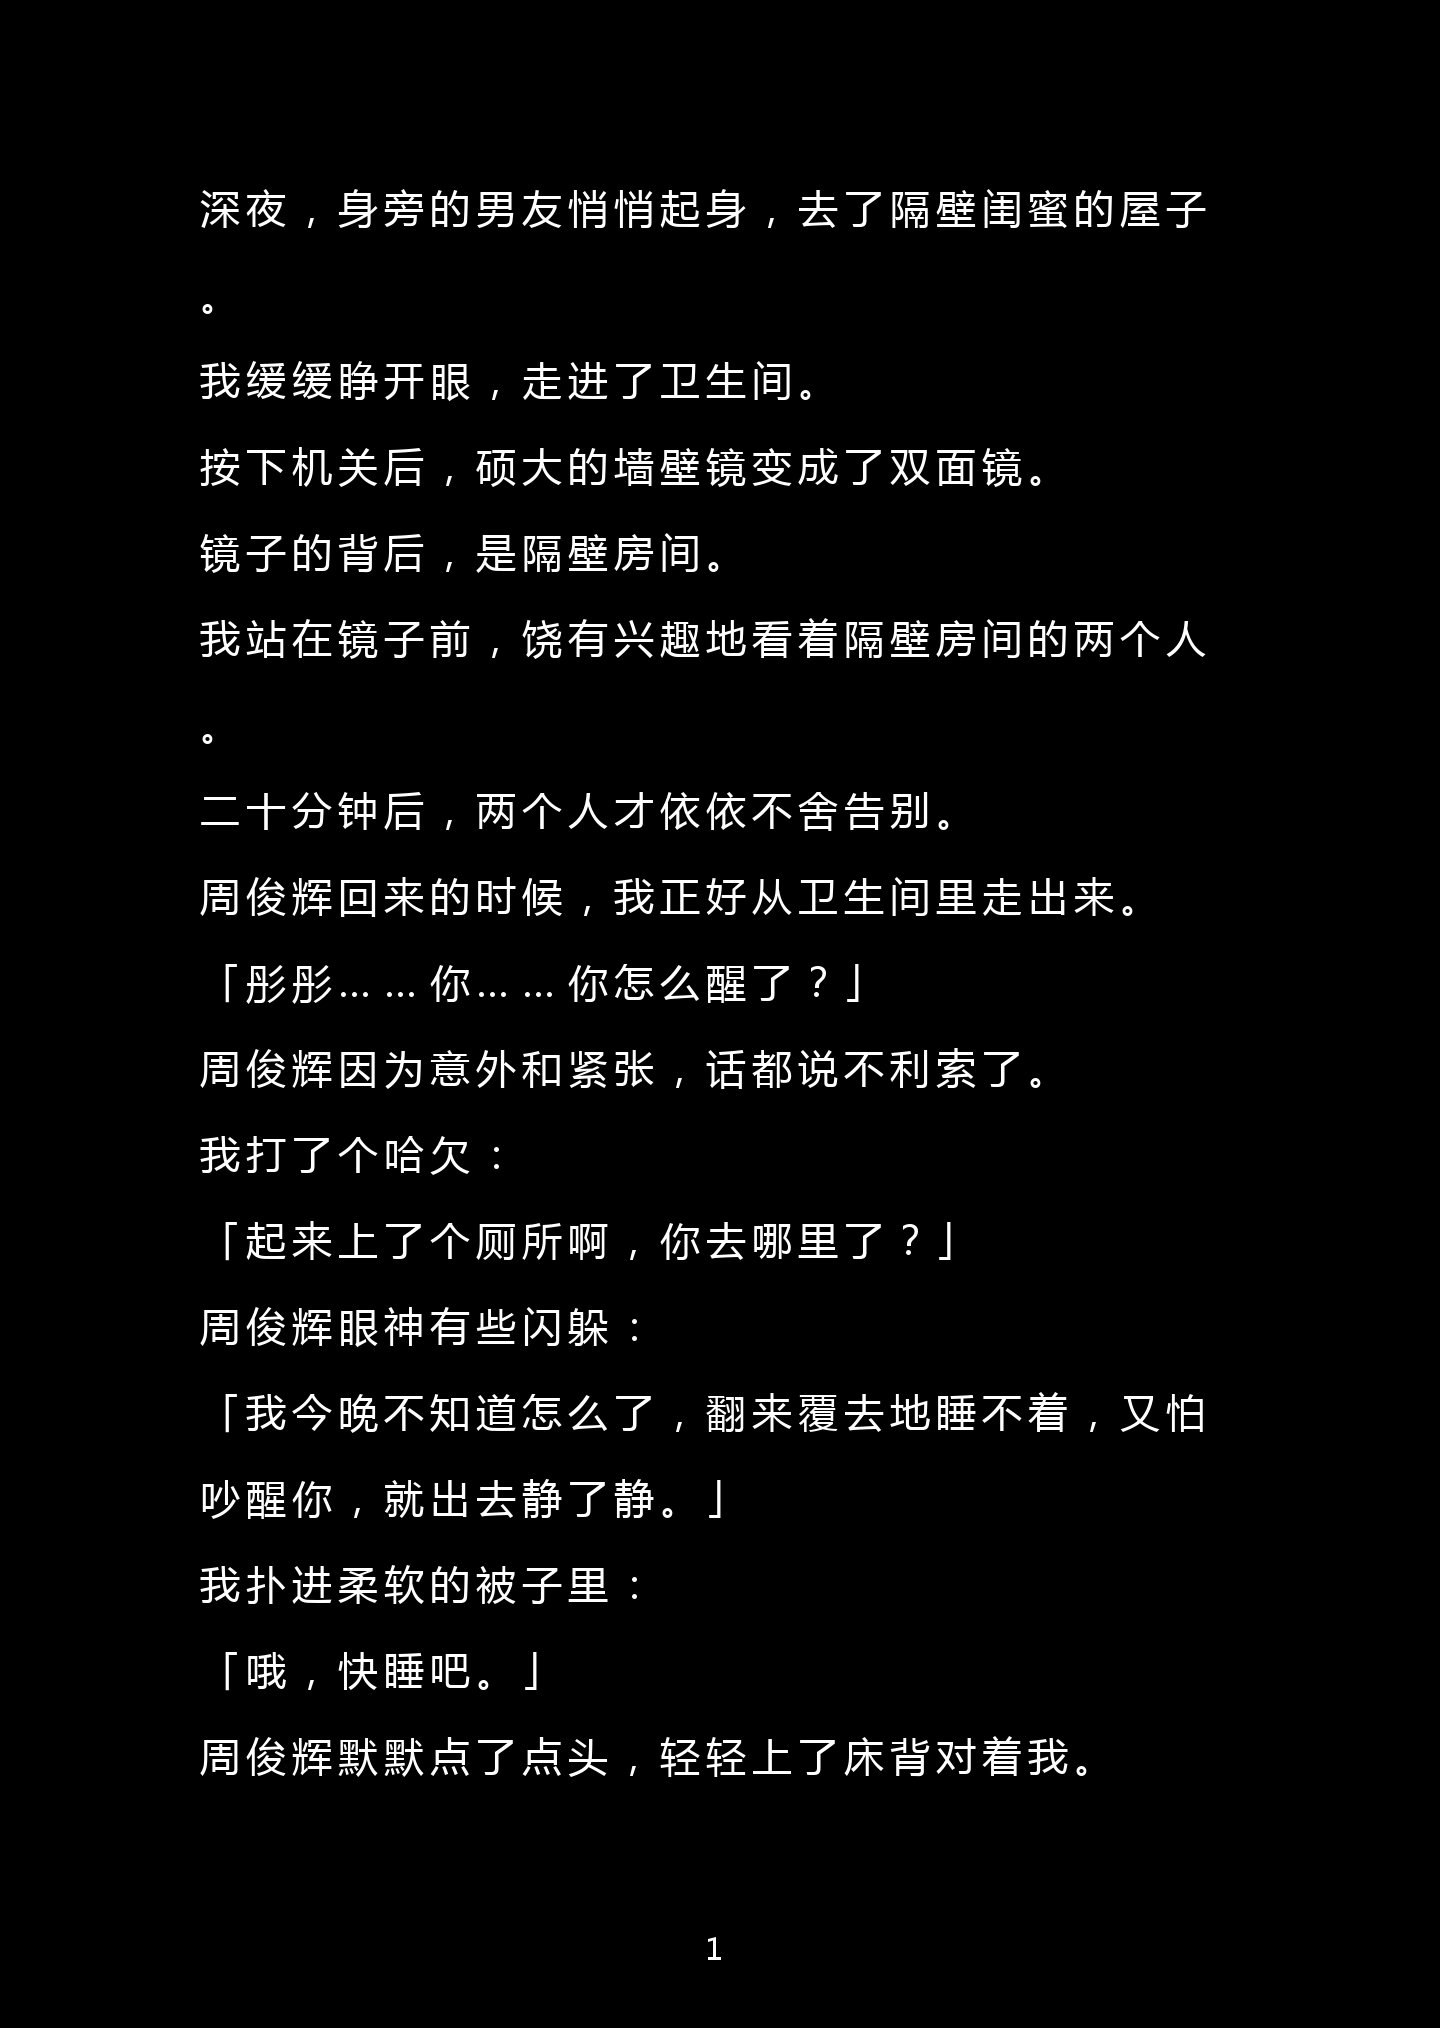
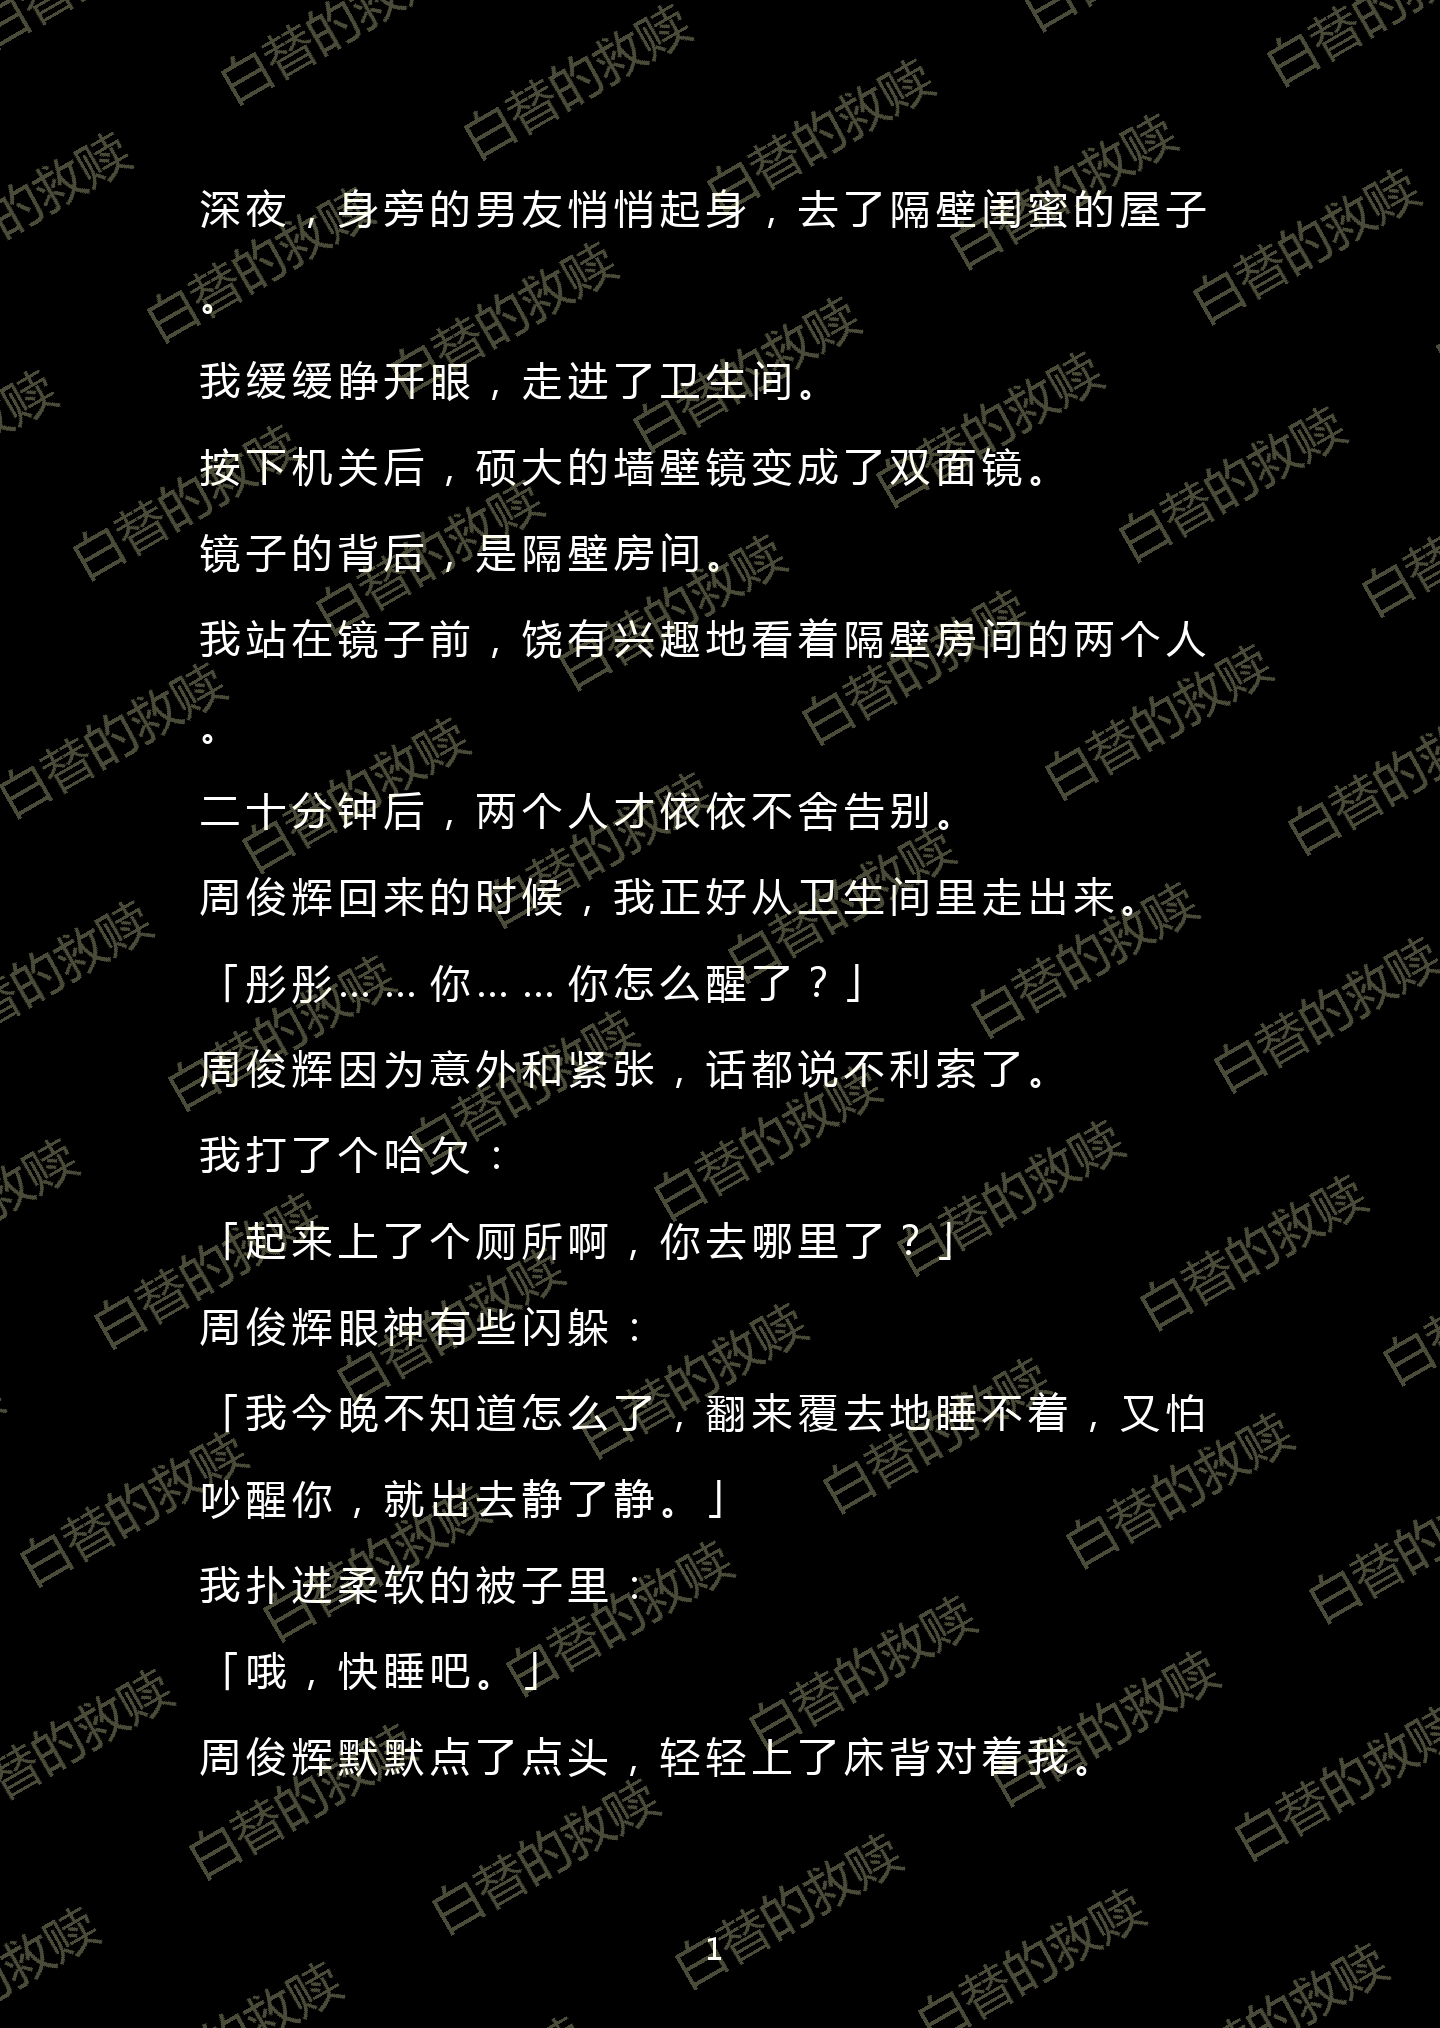
加了对关键词水印的支持，可以设置关键词水印，支持自定义水印字体、水印颜色、水印大小、水印透明度、水印间隔

diff --git a/create_img_for_story.py b/create_img_for_story.py
@@ -1,48 +1,184 @@
 # -*- coding: utf-8 -*-
+"""
+# * * * * * * * * * * * * * * * * * * * * * * * * * * * * * * #
+# *     _   _    _ _   _ _   __  _ _  __ _ _   _ _   _ _    * #
+# *    / \ | |  / _` V  _  \ \ \/ ∧ \/ /  _` V  _  V  _` \  * #
+# *   / Δ \| |_| (_l | | | |  \  / \  /| (_l | | | | (_) |  * #
+# *  /_/ \_|___|\__∧_|_| |_|   \/   \/  \__∧_|_| |_|\__, |  * #
+# *                                                 _ _| |  * #
+# *             Author : AlanWang4523               \_ _,'  * #
+# *              Mail  : alanwang4523@gmail.com             * #
+# *              Date  : 2023-05-31                         * #
+# * * * * * * * * * * * * * * * * * * * * * * * * * * * * * * #
+
+版本记录：
+
+v1.0 2023-05-31
+1、本脚本是把小说自动分段生成多张图片，可自定义背景色、字体、字体颜色、字体大小、行间距、字间距等
+
+v2.0 2023-06-01
+1、增加背景水印功能，支持自定义水印字体、水印颜色、水印大小、水印透明度、水印间隔
+
+该脚本代码已免费开源到 Github，地址：https://github.com/alanwang4523/TextToImage
+后续更新我会同步到上述 Github 上，可自行下载
+
+"""
 import sys
 import os
-from PIL import Image, ImageDraw, ImageFont
+import math
+from PIL import Image, ImageDraw, ImageFont, ImageEnhance, ImageChops
 
-# 生成图片的参数设置
 
+""" ************** 主图片的参数设置 ************** """
 # 是否去除小说中的空白行
-IS_DELETE_EMPTY_LINE = True 
+IS_DELETE_EMPTY_LINE = True
 
 # 输出的图片宽高
-WIDTH, HEIGHT = 1440, 2028 
+WIDTH, HEIGHT = 1440, 2028
 
-# 背景图颜色，RGBA，如绿色背景：(0,128,0,0)
-BACKGROUND_COLORE=(0,0,0,256) 
+# 背景图颜色，RGBA，如浅绿色背景：(69, 139, 116)，颜色值取色可参考：https://tool.oschina.net/commons?type=3
+BACKGROUND_COLOR = (0, 0, 0)
 
 # 文字颜色，RGB
-FONT_COLOR = (255, 255, 255) 
+FONT_COLOR = (255, 255, 255)
 
 # 中文字体库，请将此字体文件保存到脚本文件夹中
-FONT_NAME = "yahei.ttf"  
+FONT_NAME = "yahei.ttf"
 
 # 左右边距
-HORIZONTAL_MATGIN = 200 
+HORIZONTAL_MARGIN = 200
 
 # 上下边距
-VERTICAL_MATGIN = 180 
+VERTICAL_MARGIN = 180
 
 # 字体大小
-FONT_SIZE = 40 
+FONT_SIZE = 40
 
 # 行间距
-LINE_SPACING = 46 
+LINE_SPACING = 46
 
 # 字间距
-CHARACTER_SPACING = 6 
+CHARACTER_SPACING = 6
 
+
+""" ************** 水印相关参数设置 ************** """
+# 水印关键词
+KEY_WATERMARK_TXT = ""
+
+# 关键词字体，可以和主主文本不一致
+KEY_WM_FONT = "yahei.ttf"
+
+# 关键词水印文字颜色，RGB
+KEY_WM_FONT_COLOR = (255, 255, 128)
+
+# 关键词水印的透明度参数, 越小水印越浅，必须是 [0.0, 1.0] 之间
+KEY_WM_OPACITY = 0.18
+
+# 关键词水印大小
+KEY_WM_SIZE = 50
+
+# 关键词水印的旋转角度
+KEY_WM_ROTATE_ANGLE = 30
+
+# 两个关键词水印之间的水平间隔
+KEY_WM_HORIZONTAL_SPACE = 120
+
+# 两行关键词水印之间的水平间隔，即关键词水印行间距
+KEY_WM_VERTICAL_SPACE = 120
+
+# 关键词水印旋转角度
+KEY_WM_ROTATION = 30
+
+
+"""
+# 设置透明度
+"""
+def set_opacity(im, opacity):
+    assert opacity >= 0 and opacity <= 1
+
+    alpha = im.split()[3]
+    alpha = ImageEnhance.Brightness(alpha).enhance(opacity)
+    im.putalpha(alpha)
+    return im
+
+"""
+# 裁掉空白
+"""
+def crop_image(im):
+    bg = Image.new(mode='RGBA', size=im.size)
+    diff = ImageChops.difference(im, bg)
+    del bg
+    bbox = diff.getbbox()
+    if bbox:
+        return im.crop(bbox)
+    return im
+
+
+"""
+# 生成关键词水印图
+"""
+def create_key_watermark():
+    # 字体宽度
+    wm_width = len(KEY_WATERMARK_TXT) * KEY_WM_SIZE
+
+    # 创建水印图片
+    watermark = Image.new(mode='RGBA', size=(wm_width, int(KEY_WM_SIZE * 2)))
+
+    draw_txt = ImageDraw.Draw(im=watermark)
+    draw_txt.text(xy=(0, int((watermark.size[1] - KEY_WM_SIZE) / 2)),
+                    text=KEY_WATERMARK_TXT,
+                    fill=KEY_WM_FONT_COLOR,
+                    font=ImageFont.truetype(KEY_WM_FONT, size=KEY_WM_SIZE))
+    # 裁剪空白
+    watermark = crop_image(watermark)
+    # 透明度
+    set_opacity(watermark, KEY_WM_OPACITY)
+
+    return watermark
+
+
+def draw_watermark_to_img(im, mark):
+    # 计算对角线长度
+    img_w = im.size[0]
+    img_h = im.size[1]
+    mark_w = mark.size[0]
+    mark_h = mark.size[1]
+    d_len = int(math.sqrt(img_w*img_w + img_h*img_h))
+
+    # 以对角线长度为宽高创建大图，确保旋转后能覆盖原图
+    mark2 = Image.new(mode='RGBA', size=(d_len, d_len))
+
+    # 在大图上生成水印文字
+    y, idx = 0, 0
+    while y < d_len:
+        # 水印错开分布
+        x = -int((mark_w + KEY_WM_HORIZONTAL_SPACE) * 0.5 * idx)
+        idx = (idx + 1) % 2
+
+        while x < d_len:
+            # 在该位置粘贴mark水印图片
+            mark2.paste(mark, (x, y))
+            x += (mark_w + KEY_WM_HORIZONTAL_SPACE)
+        y += (mark_h + KEY_WM_VERTICAL_SPACE)
+
+    # 将大图旋转指定角度
+    mark2 = mark2.rotate(KEY_WM_ROTATE_ANGLE)
+
+    # 在原图上添加大图水印
+    if im.mode != 'RGBA':
+        im = im.convert('RGBA')
+    im.paste(mark2, # 大图
+        (int((img_w - d_len) / 2), int((img_h - d_len) / 2)), # 坐标
+        mask=mark2.split()[3])
+    del mark2
+    return im
 
 """
 # 将文本生成图片
 """
 def create_image_with_text(i, text, out_path):
-
     # 创建一个新的空白图像
-    image = Image.new("RGB", (WIDTH, HEIGHT), BACKGROUND_COLORE)
+    image = Image.new("RGB", (WIDTH, HEIGHT), BACKGROUND_COLOR)
 
     # 创建字体对象
     font = ImageFont.truetype(FONT_NAME, FONT_SIZE)
@@ -54,10 +190,10 @@ def create_image_with_text(i, text, out_path):
     lines = text.split("\n")
 
     # 自动计算每行最大字符数
-    max_chars_per_line = int((WIDTH - 2 * HORIZONTAL_MATGIN) / (FONT_SIZE + CHARACTER_SPACING))
+    max_chars_per_line = int((WIDTH - 2 * HORIZONTAL_MARGIN) / (FONT_SIZE + CHARACTER_SPACING))
     line_height = FONT_SIZE + LINE_SPACING
 
-    y = VERTICAL_MATGIN
+    y = VERTICAL_MARGIN
 
     # 在图像上绘制文本
     for line in lines:
@@ -67,7 +203,7 @@ def create_image_with_text(i, text, out_path):
         while line:
             chars_to_draw = line[:max_chars_per_line]
             line = line[max_chars_per_line:]
-            x = HORIZONTAL_MATGIN
+            x = HORIZONTAL_MARGIN
             for character in chars_to_draw:
                 draw.text((x, y), character, fill=FONT_COLOR, font=font)
                 x += (FONT_SIZE + CHARACTER_SPACING)
@@ -80,11 +216,15 @@ def create_image_with_text(i, text, out_path):
     x = (WIDTH - num_size) / 2
     y = HEIGHT - 100
     draw.text((x, y), num, fill=FONT_COLOR, font=font)
-    # 将图像保存到文件
-    image.save(out_path)
+
+    return image
 
 
+"""
+# 将文本自动分成多段
+"""
 def handle_text(input_text_file, output_dir):
+	img_count = 0
     # 打开要处理的文件
 	with open(input_text_file, 'r', encoding='utf-8') as input_file:
         # 读取所有行
@@ -98,37 +238,72 @@ def handle_text(input_text_file, output_dir):
 		current_segment = ''
 
 		# 自动计算每行最大字符数
-		max_chars_per_line = int((WIDTH - 2 * HORIZONTAL_MATGIN) / (FONT_SIZE + CHARACTER_SPACING))
+		max_chars_per_line = int((WIDTH - 2 * HORIZONTAL_MARGIN) / (FONT_SIZE + CHARACTER_SPACING))
 		line_height = FONT_SIZE + LINE_SPACING
-		y = VERTICAL_MATGIN
-		max_height = HEIGHT - VERTICAL_MATGIN
+		y = VERTICAL_MARGIN
+		max_height = HEIGHT - VERTICAL_MARGIN
 		# 根据设置的参数分段分屏
 		for line in all_lines:
 			while line:
 				chars_to_draw = line[:max_chars_per_line]
 				line = line[max_chars_per_line:]
 				y += line_height
-				
+
 				if (y > max_height) :
 					segments.append(current_segment)
 					current_segment = ''
-					y = VERTICAL_MATGIN
-	
+					y = VERTICAL_MARGIN
+
 				current_segment += chars_to_draw
 
 		segments.append(current_segment)
+
+		img_count = len(segments)
+
+		# 判断是否需要添加水印
+		is_need_watermark = len(KEY_WATERMARK_TXT) > 0
+		if is_need_watermark:
+			watermark = create_key_watermark()
+
 		for i, segment in enumerate(segments):
-			print("正在生成第 {} 页...\n".format(i+1))
+			print("正在生成第 {} 页...\n".format(i + 1))
 			# print("{}".format(segment))
 			output_filename = f'img_{i+1}.png'
 			output_path = os.path.join(output_dir, output_filename)
-			create_image_with_text(i, segment, output_path)
+			image = create_image_with_text(i, segment, output_path)
+			if is_need_watermark:
+				image = draw_watermark_to_img(image, watermark)
+			# 将图像保存到文件
+			image.save(output_path)
+	return img_count
 
 
 # 获取输入和输出文件名
 input_file_path = sys.argv[1]
 output_dir = os.path.dirname(os.path.abspath(input_file_path))
 
-print("开始生成图片，要生成的小说文本为：{}".format(input_file_path))
-handle_text(input_file_path, output_dir)
-print("全部生成完成，图片所在目录为：\n{}".format(output_dir))
+if len(sys.argv) > 2:
+	KEY_WATERMARK_TXT = sys.argv[2]
+
+
+def print_result(output_dir, img_count):
+	# print("\n* * * * * * * * * * * * * * * * * * * * * * * * * * * * * *")
+	print("\n===========================================================")
+	print("本次共生成 {} 张图片，图片所在目录为：\n{}".format(img_count, output_dir))
+	print("\n===========================================================")
+	print("AlanWang 温馨提示：\n")
+	print("本次要生成的小说文件为：{}".format(input_file_path))
+	if len(KEY_WATERMARK_TXT) > 0:
+		print("本次设置的水印关键词为：{}".format(KEY_WATERMARK_TXT))
+	else:
+		print("注意：本次未设置关键词水印！(如果确定不需要水印不用管)")
+	print("\n请查看生成的图片，检查小说和关键词是否是本次要生成的内容.")
+	print("===========================================================")
+
+print("<===================================>")
+print("要生成的小说文本为：{}".format(input_file_path))
+print("要生成的小说关键词为：{}".format(KEY_WATERMARK_TXT))
+print("开始生成图片，请稍后：\n")
+img_count = handle_text(input_file_path, output_dir)
+print("图片生成完成！")
+print_result(output_dir, img_count)
